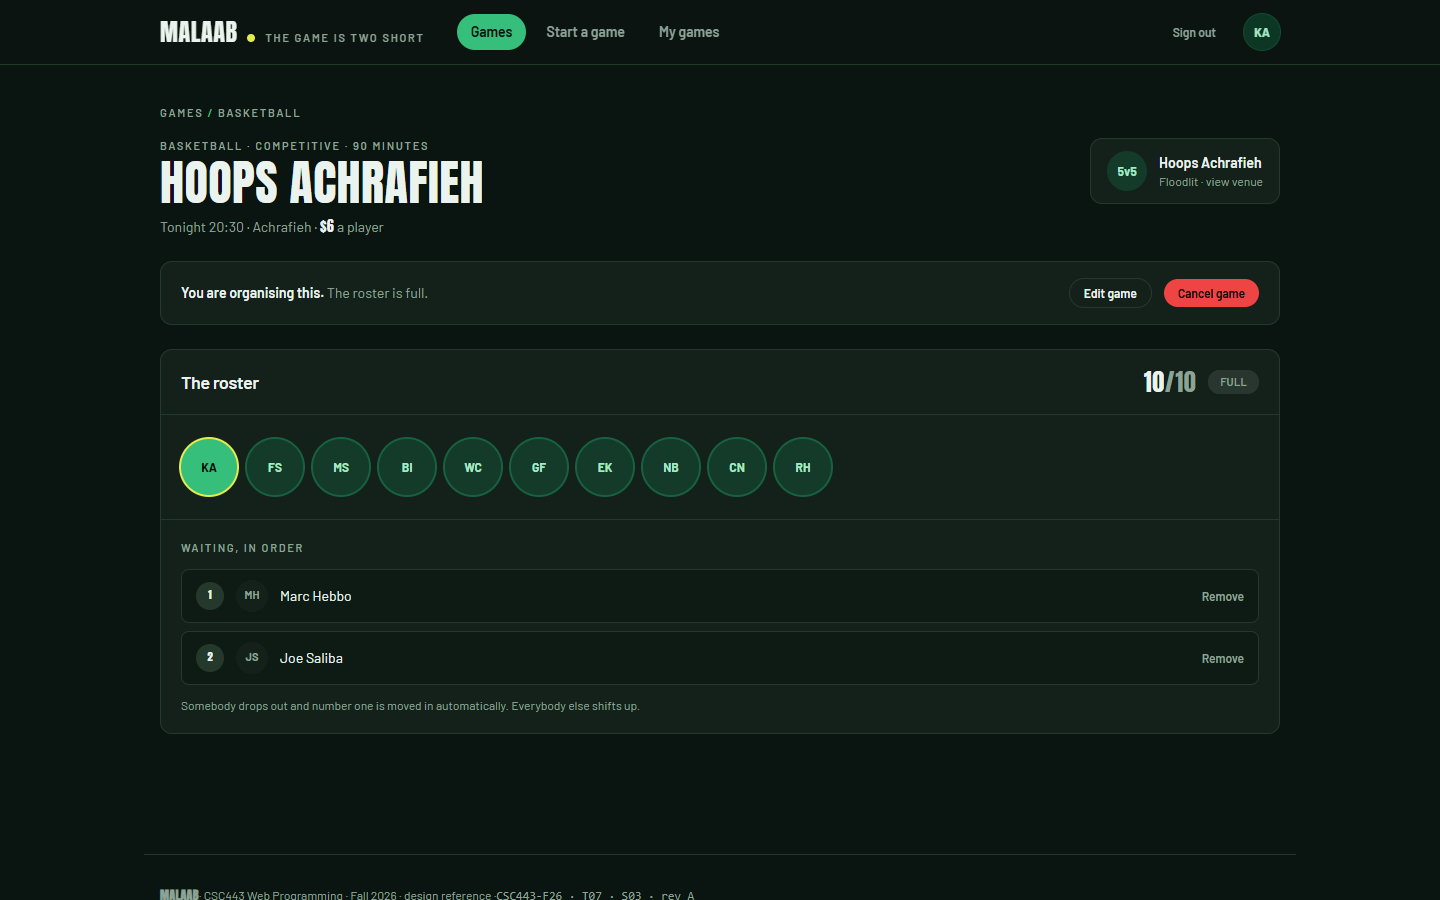
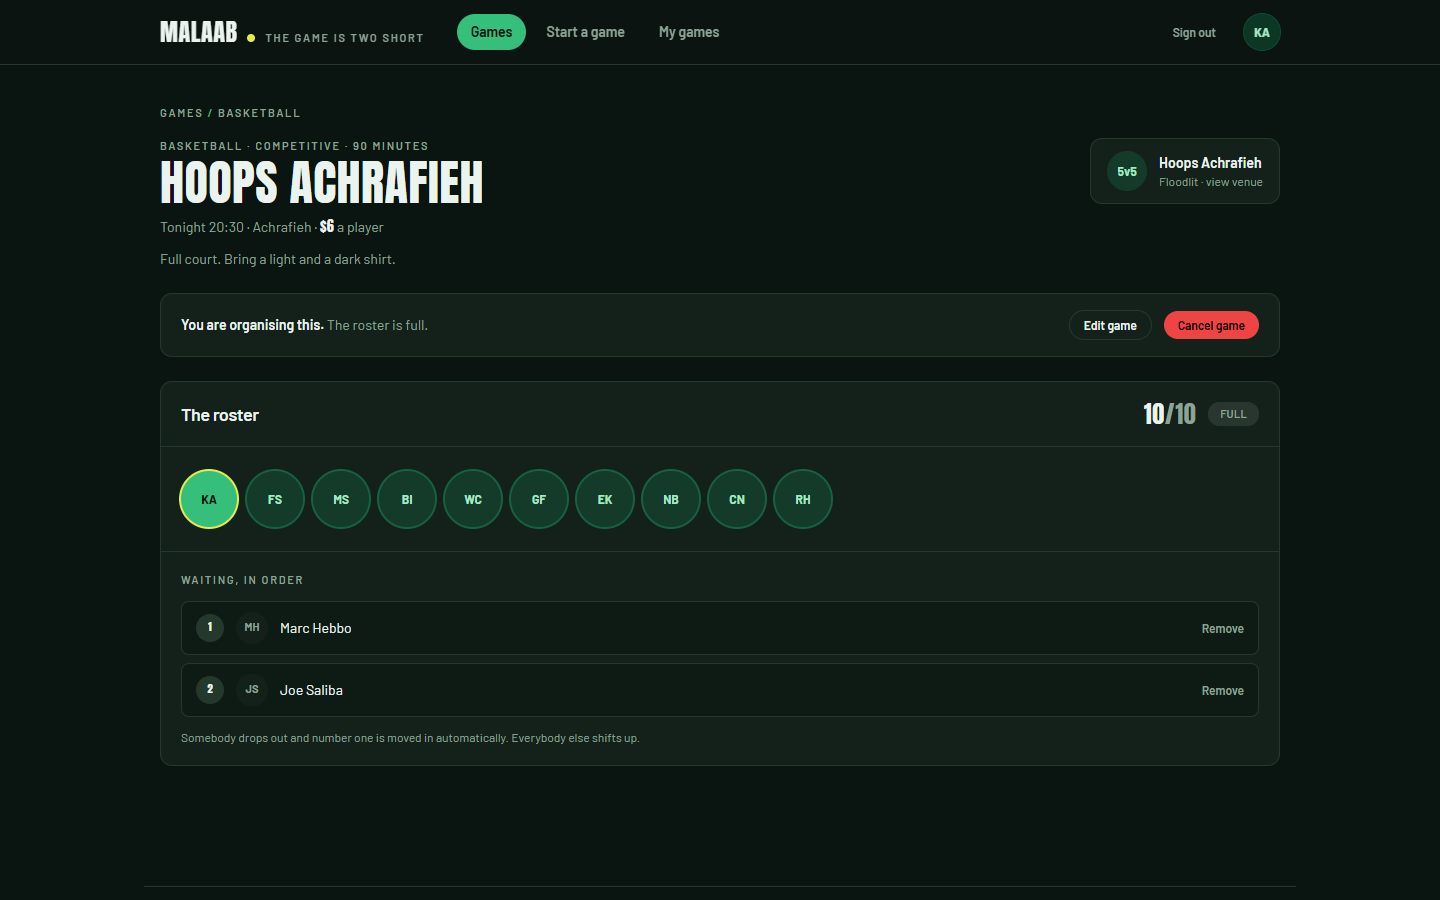
Harden pre-deploy security and verify web vulnerabilities
- Reject open-redirect tricks in ?next= (//host, /\\host, control chars)
- Add .env exclusions to .gitignore and .vercelignore
- Add security response headers and a Content-Security-Policy in vercel.json
- Display game notes safely as text on game detail
- Document security review, accepted Phase 1 risks and browser verification
- Refresh game-detail screenshots

diff --git a/src/pages/Auth.tsx b/src/pages/Auth.tsx
@@ -17,9 +17,17 @@ const linkClass =
 
 const looksLikeEmail = (value: string) => /^[^\s@]+@[^\s@]+\.[^\s@]+$/.test(value.trim())
 
-// Only follow ?next= if it is a path inside this app.
+// Only follow ?next= if it is a plain path inside this app. Reject protocol-
+// relative URLs ("//host"), backslash tricks ("/\host" is treated as "//host"
+// by browsers) and control characters, all of which could become an open
+// redirect once the string is handed to the router.
 function safeNext(next: string | null) {
-  return next && next.startsWith('/') && !next.startsWith('//') ? next : '/'
+  if (!next) return '/'
+  const value = next.trim()
+  if (!value.startsWith('/') || value.startsWith('//') || /[\\\u0000-\u001f]/.test(value)) {
+    return '/'
+  }
+  return value
 }
 
 export default function Auth({ mode }: { mode: Mode }) {

diff --git a/src/pages/GameDetail.tsx b/src/pages/GameDetail.tsx
@@ -263,6 +263,7 @@ export default function GameDetail() {
             </span>{' '}
             a player
           </p>
+          {game.notes && <p className="mt-3 max-w-prose text-sm text-muted">{game.notes}</p>}
         </div>
         <Link
           to={`/venues/${venue.id}`}

diff --git a/README.md b/README.md
@@ -257,6 +257,44 @@ vercel --prod
 > no Vercel account or token was available here. Follow the steps above, then
 > paste the resulting URL into the project's live-link record.
 
+## Security review (pre-deploy)
+
+- **Dependencies:** `npm audit` and `npm audit --omit=dev` both report **0
+  vulnerabilities**. Keep dependencies updated in Phase 2.
+- **Secrets:** no API keys, tokens, private keys or credential files exist in
+  the working tree or anywhere in git history (scanned all commits). Only
+  `.env.example` exists and it contains comments only. `.gitignore` and
+  `.vercelignore` both exclude `.env` / `.env.*` so local environment files
+  cannot be committed or uploaded. Vercel secrets belong in the dashboard.
+- **Client code:** React escapes all rendered values; there is no
+  `dangerouslySetInnerHTML`, `eval`, `new Function`, user-controlled inline
+  style, or external script/font request. No network calls, no `localStorage`
+  or `sessionStorage` in Phase 1.
+- **Open redirect:** `safeNext()` in `src/pages/Auth.tsx` accepts only a plain
+  local path. Protocol-relative URLs (`//host`), backslash tricks (`/\host`)
+  and control characters are rejected, so `?next=` cannot send a user off-site
+  after sign-in.
+- **Browser-verified:** an `<img onerror=...>` payload typed into game notes is
+  rendered as inert text and never executes; both `?next=//host` and
+  `?next=/\host` land on `/` after sign-in; no external network requests were
+  observed on any surface.
+- **Response headers:** `vercel.json` sets `nosniff`, `X-Frame-Options: DENY`,
+  `Referrer-Policy`, `Permissions-Policy` and a Content-Security-Policy that
+  allows self-hosted scripts/styles/fonts (with `data:` only for the embedded
+  fonts). The CSP can suppress Vercel's *preview toolbar* in preview
+  deployments; the production app is unaffected.
+- **CSRF:** there are no cookies and no authenticated server requests in
+  Phase 1, so there is no CSRF surface. Revisit this when Phase 2 adds a
+  session (SameSite cookies / CSRF tokens).
+
+**Accepted Phase 1 risks, by design:** `DEMO_PASSWORD` and the seeded user
+passwords are plain text in the client bundle, so anyone can sign in as a
+seeded user — that is the mock authentication the brief asks for. Seed email
+addresses and phone numbers are invented mock data. **Phase 2 must move
+authentication and the house rule to the server**, store salted password
+hashes, validate at the API boundary, add rate limiting, and delete these
+client-side constants.
+
 ## Screenshots and recording
 
 All screenshots below were captured from the running app in headless Chrome;
